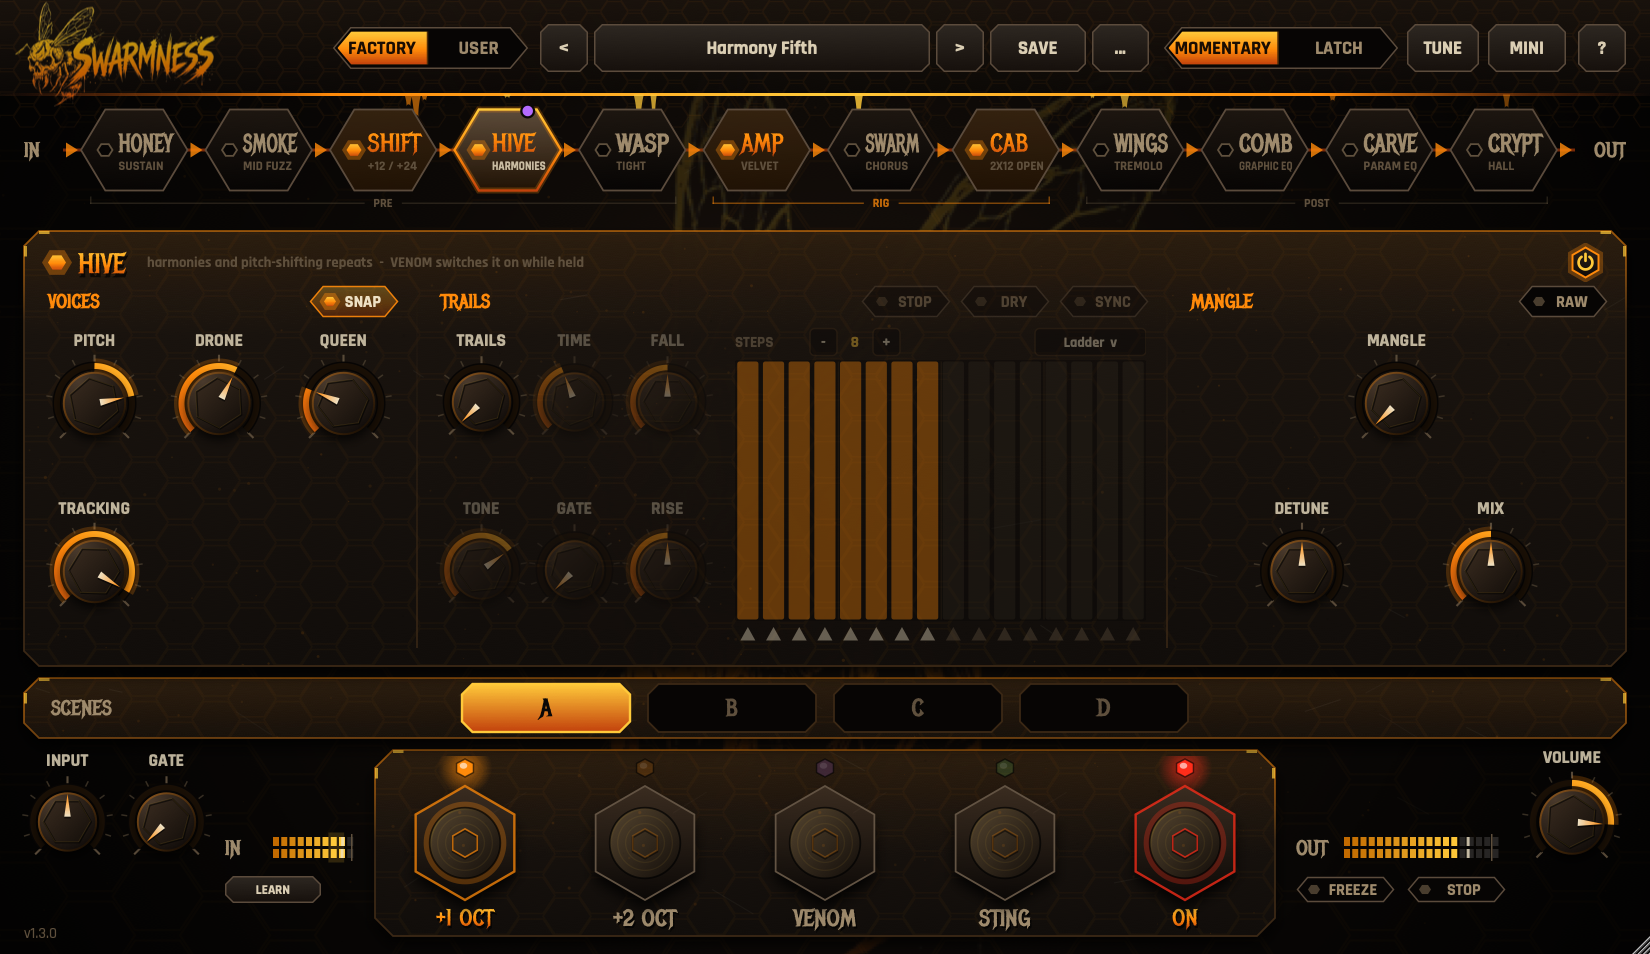
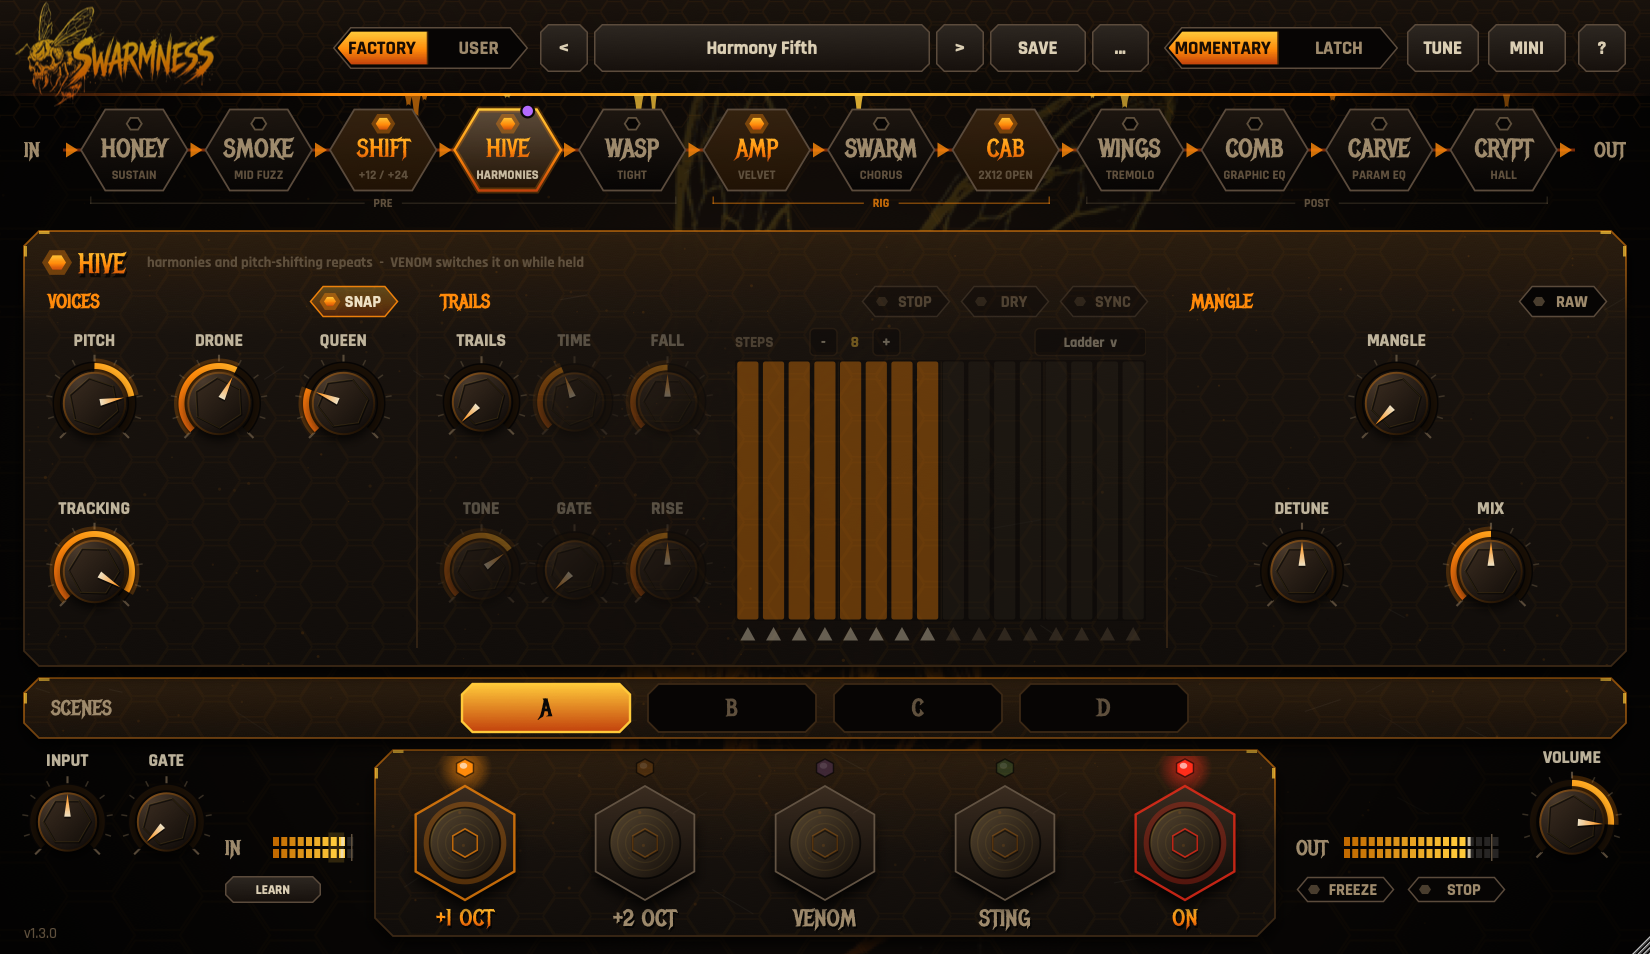
UI: the title LED is the block's power switch; tile text centred
Every block had two things saying the same: a hex LED in front of its
title and a separate power button on the right. The LED is the switch now
(PowerButton draws as that LED: lit = on, a faint glow = off but a stomp /
footswitch has it engaged right now), the right-hand buttons are gone and
the selectors / pills move up to the edge. Chain tiles: the LED sits on top
in the middle, the name and its live value are centred under it.

diff --git a/Source/GUI/Pages.cpp b/Source/GUI/Pages.cpp
@@ -10,11 +10,17 @@ namespace
     void drawPanelTitle (juce::Graphics& g, juce::Rectangle<float> area, const juce::String& title, const juce::String& subtitle, bool active)
     {
         auto row = area.reduced (16.0f, 0.0f).withTrimmedTop (8.0f).withHeight (26.0f);
-        drawSectionTitle (g, row, title, active);
+        drawSectionTitle (g, row, title, active, false);   // the block's PowerButton is the LED
         g.setFont (font (12.5f, true));
         g.setColour (Colours::textFaint);
         g.drawText (subtitle, row.withTrimmedLeft (22.0f + (float) juce::GlyphArrangement::getStringWidthInt (displayFont (23.0f), title) + 12.0f),
                     juce::Justification::centredLeft, false);
+    }
+
+    /** The block is sounding right now (its switch, or a stomp / footswitch holding it on). */
+    bool engagedNow (SwarmnessAudioProcessor& p, int block)
+    {
+        return (p.getMeters().engagedBlocks.load (std::memory_order_relaxed) & (1u << block)) != 0;
     }
 
     juce::String hzLabel (double f)
@@ -571,9 +577,8 @@ void EqPage::resized()
     const float w = (float) getWidth(), h = (float) getHeight();
     combArea = carveArea = { 0.0f, 0.0f, w, h };
 
-    auto powerFor = [] (juce::Rectangle<float> a) { return juce::Rectangle<int> ((int) a.getRight() - 40, (int) a.getY() + 8, 26, 26); };
-    combPower.setBounds (powerFor (combArea));
-    carvePower.setBounds (powerFor (carveArea));
+    combPower.setBounds (titleLedBounds (combArea));
+    carvePower.setBounds (titleLedBounds (carveArea));
 
     // COMB: the curve across the top, ten faders under it
     {
@@ -629,6 +634,8 @@ void EqPage::paint (juce::Graphics& g)
 
 void EqPage::tick()
 {
+    combPower.setEngaged (engagedNow (processor, Chain::comb));
+    carvePower.setEngaged (engagedNow (processor, Chain::carve));
     const bool c = combPower.getToggleState(), v = carvePower.getToggleState();
     if (c != combOn || v != carveOn)
     {
@@ -823,8 +830,8 @@ ReverbPage::ReverbPage (SwarmnessAudioProcessor& p)
 void ReverbPage::resized()
 {
     panelArea = getLocalBounds().toFloat();
-    power.setBounds ((int) panelArea.getRight() - 40, 8, 26, 26);
-    typeSelector.setBounds ((int) panelArea.getRight() - 52 - 400, 10, 400, 24);
+    power.setBounds (titleLedBounds (panelArea));
+    typeSelector.setBounds ((int) panelArea.getRight() - 16 - 400, 10, 400, 24);
     freezeToggle.setBounds (typeSelector.getX() - 12 - 76, 10, 76, 24);
 
     const int tailH = getHeight() - 46 - 124;
@@ -891,6 +898,7 @@ void ReverbPage::paint (juce::Graphics& g)
 
 void ReverbPage::tick()
 {
+    power.setEngaged (engagedNow (processor, Chain::crypt));
     const bool nowOn = power.getToggleState();
     const bool nowIr = (int) state.getRawParameterValue (ParamIDs::revType)->load() == ReverbStage::impulse;
     const auto desc = processor.getReverbIRDescription();
@@ -1099,8 +1107,8 @@ void AmpCabSection::resized()
     ampArea = { 0.0f, 0.0f, 690.0f, h };
     cabArea = { 702.0f, 0.0f, w - 702.0f, h };
 
-    ampPower.setBounds ((int) ampArea.getRight() - 40, 8, 26, 26);
-    channelSelector.setBounds ((int) ampArea.getRight() - 52 - 300, 10, 300, 24);
+    ampPower.setBounds (titleLedBounds (ampArea));
+    channelSelector.setBounds ((int) ampArea.getRight() - 16 - 300, 10, 300, 24);
     {
         const std::initializer_list<Knob*> row { &gainKnob, &bassKnob, &midKnob, &trebleKnob, &presenceKnob, &depthKnob, &masterKnob };
         const std::initializer_list<Knob*> namRow { &namInputKnob, &namBassKnob, &namMidKnob, &namTrebleKnob, &namPresenceKnob, &namDepthKnob, &namOutputKnob };
@@ -1128,7 +1136,7 @@ void AmpCabSection::resized()
     gateKnob .setBounds ((int) morphArea.getRight() + 20, 146, 72, 102);
     levelKnob.setBounds (gateKnob.getRight() + 8, 146, 72, 102);
 
-    cabPower.setBounds ((int) cabArea.getRight() - 40, 8, 26, 26);
+    cabPower.setBounds (titleLedBounds (cabArea));
     cabSelector.setBounds ((int) cabArea.getX() + 14, 40, (int) cabArea.getWidth() - 28, 24);
     {
         const std::initializer_list<Knob*> row { &micKnob, &distKnob, &lowCutKnob, &highCutKnob, &cabLevelKnob };
@@ -1253,6 +1261,8 @@ void AmpCabSection::paint (juce::Graphics& g)
 
 void AmpCabSection::tick()
 {
+    ampPower.setEngaged (engagedNow (processor, Chain::amp));
+    cabPower.setEngaged (engagedNow (processor, Chain::cab));
     const bool nowAmp = ampPower.getToggleState(), nowCab = cabPower.getToggleState();
     const int nowChannel = juce::roundToInt (state.getRawParameterValue (ParamIDs::ampChannel)->load());
     const int nowType = juce::roundToInt (state.getRawParameterValue (ParamIDs::cabType)->load());
@@ -1476,8 +1486,8 @@ DriveBlock::Settings WaspSection::current() const
 void WaspSection::resized()
 {
     panelArea = getLocalBounds().toFloat();
-    power.setBounds ((int) panelArea.getRight() - 40, 8, 26, 26);
-    modeSelector.setBounds ((int) panelArea.getRight() - 40 - 12 - 150, 9, 150, 24);
+    power.setBounds (titleLedBounds (panelArea));
+    modeSelector.setBounds ((int) panelArea.getRight() - 16 - 150, 9, 150, 24);
     characterSelector.setBounds (modeSelector.getX() - 12 - 250, 9, 250, 24);
     const float knobsW = 470.0f;
     {
@@ -1661,6 +1671,7 @@ void WaspSection::paint (juce::Graphics& g)
 
 void WaspSection::tick()
 {
+    power.setEngaged (engagedNow (processor, Chain::drive));
     const auto s = current();
     bool changed = false;
     if (const auto st = processor.getTone3000Status (Tone3000::Target::pedal); st != toneStatus)

diff --git a/Source/PluginEditor.cpp b/Source/PluginEditor.cpp
@@ -452,8 +452,9 @@ void MainPanel::resized()
     const auto P = pageArea.toFloat();
     honeyArea = fuzzArea = swarmArea = flowArea = hiveArea = shiftArea = P;
 
-    auto powerFor = [] (juce::Rectangle<float> a) { return juce::Rectangle<int> ((int) a.getRight() - 40, (int) a.getY() + 8, 26, 26); };
-    auto pillFor  = [] (juce::Rectangle<float> a, int slot) { return juce::Rectangle<int> ((int) a.getRight() - 40 - 66 * (slot + 1), (int) a.getY() + 9, 60, 24); };
+    // a block's power button is the LED in front of its title; the switches line up at the right
+    auto powerFor = [] (juce::Rectangle<float> a) { return titleLedBounds (a); };
+    auto pillFor  = [] (juce::Rectangle<float> a, int slot) { return juce::Rectangle<int> ((int) a.getRight() - 16 - 60 - 66 * slot, (int) a.getY() + 9, 60, 24); };
     constexpr int bigW = 92, bigH = 128, smallW = 70, smallH = 100, bigStep = 124, smallStep = 96;
     // knobs side by side, centred between x0 and x1; big ones and small ones share a centre line
     auto row = [] (std::initializer_list<std::pair<Knob*, bool>> knobs, int x0, int x1, int centreY)
@@ -479,7 +480,7 @@ void MainPanel::resized()
 
     // SMOKE: one row - the three that shape it large, the details smaller
     fuzzPower.setBounds (powerFor (fuzzArea));
-    fuzzVoiceSelector.setBounds ((int) fuzzArea.getRight() - 40 - 8 - 150, (int) fuzzArea.getY() + 10, 150, 22);
+    fuzzVoiceSelector.setBounds ((int) fuzzArea.getRight() - 16 - 150, (int) fuzzArea.getY() + 10, 150, 22);
     row ({ { &fuzzKnob, true }, { &fuzzToneKnob, true }, { &fuzzBlendKnob, true }, { &fuzzScoopKnob, false }, { &fuzzGlareKnob, false },
            { &fuzzGateKnob, false }, { &fuzzSagKnob, false }, { &fuzzCrushKnob, false } }, px0, px1, bodyMid);
 
@@ -552,8 +553,8 @@ void MainPanel::resized()
 
     // WINGS: depth and rate on the left, the step pattern next to them
     flowPower.setBounds (powerFor (flowArea));
-    syncToggle.setBounds ((int) flowArea.getRight() - 44 - 54,  (int) flowArea.getY() + 9, 54, 24);
-    hardToggle.setBounds ((int) flowArea.getRight() - 44 - 112, (int) flowArea.getY() + 9, 54, 24);
+    syncToggle.setBounds ((int) flowArea.getRight() - 16 - 54,  (int) flowArea.getY() + 9, 54, 24);
+    hardToggle.setBounds ((int) flowArea.getRight() - 16 - 112, (int) flowArea.getY() + 9, 54, 24);
     {
         flowAmountKnob.setBounds (px0, bodyMid - bigH / 2, bigW, bigH);
         flowSpeedKnob.setBounds (px0 + bigStep, bodyMid - bigH / 2, bigW, bigH);
@@ -712,7 +713,7 @@ void MainPanel::paintBackdrop (juce::Graphics& g)
     auto blockPanel = [&] (juce::Rectangle<float> a, const char* title, const char* description, bool on)
     {
         drawPanel (g, a);
-        drawSectionTitle (g, titleRow (a), title, on);
+        drawSectionTitle (g, titleRow (a), title, on, false);   // the block's PowerButton is the LED
         g.setFont (font (12.5f, true));
         g.setColour (Colours::textFaint);
         g.drawText (description, titleRow (a).withTrimmedLeft (22.0f + (float) juce::GlyphArrangement::getStringWidthInt (displayFont (23.0f), title) + 12.0f),
@@ -822,6 +823,12 @@ void MainPanel::tick()
     const bool hiveSynced = paramOn (ParamIDs::rbSync);
     rbTimeKnob.setVisible (! hiveSynced);
     rbDivKnob.setVisible (hiveSynced);
+
+    // the power LEDs also glow (faintly) while a stomp / footswitch has the block on
+    shiftPower.setEngaged (noiseOn);
+    for (auto [button, block] : { std::pair<PowerButton*, int> { &hivePower, Chain::pitch }, { &swarmPower, Chain::swarm },
+                                  { &fuzzPower, Chain::smoke }, { &flowPower, Chain::wings }, { &honeyPower, Chain::honey } })
+        button->setEngaged (blockEngaged (block));
 
     const bool voicesOn = blockEngaged (Chain::pitch);
     const std::array<bool, 6> states { noiseOn, voicesOn, blockEngaged (Chain::swarm),
@@ -1034,7 +1041,7 @@ void MainPanel::addStompWiring (juce::PopupMenu& menu, bool venom)
         if (p == nullptr) return;
         const int current = juce::roundToInt (p->convertFrom0to1 (p->getValue()));
         juce::PopupMenu sub;
-        static const char* labels[] { "-  (its own power button)", "On while held", "Off while held" };
+        static const char* labels[] { "-  (its own power LED)", "On while held", "Off while held" };
         for (int a = 0; a < 3; ++a)
             sub.addItem (labels[a], true, current == a, [p, a] { p->beginChangeGesture(); p->setValueNotifyingHost (p->convertTo0to1 ((float) a)); p->endChangeGesture(); });
         menu.addSubMenu (name + (current == 1 ? "  -  On" : current == 2 ? "  -  Off" : juce::String()), sub, true, nullptr, current != 0);

diff --git a/Source/GUI/Controls.cpp b/Source/GUI/Controls.cpp
@@ -160,43 +160,32 @@ PowerButton::PowerButton()
     setMouseCursor (juce::MouseCursor::PointingHandCursor);
 }
 
-void PowerButton::paintButton (juce::Graphics& g, bool isMouseOver, bool)
+void PowerButton::paintButton (juce::Graphics& g, bool isMouseOver, bool isDown)
 {
-    const auto r = getLocalBounds().toFloat().reduced (1.5f);
+    // the same hex LED the section titles have, sized like theirs; the button around it is the click target
+    const auto c = getLocalBounds().toFloat().getCentre();
+    const auto led = juce::Rectangle<float> (12.0f, 11.0f).withCentre (c);
     const bool on = getToggleState();
-    const auto c = r.getCentre();
-    const float rad = juce::jmin (r.getWidth(), r.getHeight()) * 0.5f;
-    const auto hexR = juce::Rectangle<float> (rad * 2.0f, rad * 2.0f).withCentre (c);
-
-    // artwork: the round power button, its symbol lit when on
-    if (Skin::draw (g, on ? "power_on" : "power_off", hexR.expanded (2.0f)))
+    if (isMouseOver || isDown)
     {
-        if (isMouseOver)
-        {
-            g.setColour (Colours::accent.withAlpha (0.35f));
-            g.drawEllipse (hexR.reduced (1.0f), 1.2f);
-        }
-        return;
+        g.setColour (Colours::accent.withAlpha (isDown ? 0.3f : 0.16f));
+        g.fillPath (hexagon (led.expanded (6.0f)));
     }
-
-    if (on)
+    if (on || engaged)
     {
-        g.setColour (Colours::accent.withAlpha (0.3f));
-        g.fillPath (hexagon (hexR.expanded (2.0f), true));
+        g.setColour (Colours::accent.withAlpha (on ? 0.35f : 0.18f));
+        g.fillPath (hexagon (led.expanded (4.0f)));
+        if (on)
+            g.setGradientFill (honeyGradient (led));
+        else
+            g.setColour (Colours::accent.withAlpha (0.55f));
+        g.fillPath (hexagon (led));
     }
-    g.setGradientFill (juce::ColourGradient (juce::Colour (0xff2e2319), c.x, hexR.getY(),
-                                             juce::Colour (0xff0d0907), c.x, hexR.getBottom(), false));
-    g.fillPath (hexagon (hexR.reduced (1.5f), true));
-    g.setColour (on ? Colours::accent : (isMouseOver ? Colours::textDim : Colours::panelBorder.brighter (0.3f)));
-    g.strokePath (hexagon (hexR.reduced (1.5f), true), juce::PathStrokeType (1.3f));
-
-    const float ir = rad * 0.4f;
-    juce::Path glyph;
-    glyph.addCentredArc (c.x, c.y, ir, ir, 0.0f, juce::degreesToRadians (35.0f), juce::degreesToRadians (325.0f), true);
-    glyph.startNewSubPath (c.x, c.y - ir * 1.25f);
-    glyph.lineTo (c.x, c.y - ir * 0.25f);
-    g.setColour (on ? Colours::accentBright : Colours::textFaint);
-    g.strokePath (glyph, juce::PathStrokeType (1.8f, juce::PathStrokeType::curved, juce::PathStrokeType::rounded));
+    else
+    {
+        g.setColour (isMouseOver ? Colours::textDim : Colours::textFaint);
+        g.strokePath (hexagon (led), juce::PathStrokeType (1.2f));
+    }
 }
 
 //==============================================================================

diff --git a/Source/GUI/ChainStrip.cpp b/Source/GUI/ChainStrip.cpp
@@ -146,8 +146,11 @@ void ChainStrip::resized()
 juce::Rectangle<float> ChainStrip::ledRect (juce::Rectangle<float> tile) const noexcept
 {
     const bool half = isHalf (tile, tileAreaHeight());
-    const float s = half ? 9.0f : 10.0f;
-    return juce::Rectangle<float> (s, s - 1.0f).withCentre ({ tile.getX() + (half ? 14.0f : 16.0f), tile.getCentreY() });
+    // full tiles: the LED sits on top in the middle, the name and its value centred under it;
+    // half tiles (parallel paths) are too low for that: LED on the left
+    if (half)
+        return juce::Rectangle<float> (9.0f, 8.0f).withCentre ({ tile.getX() + 14.0f, tile.getCentreY() });
+    return juce::Rectangle<float> (10.0f, 9.0f).withCentre ({ tile.getCentreX(), tile.getY() + 9.5f });
 }
 
 Chain::Layout ChainStrip::displayLayout() const
@@ -420,7 +423,8 @@ void ChainStrip::paint (juce::Graphics& g)
 
         // name (+ subtitle on full-height tiles)
         // eleven blocks share the strip: names squeeze rather than getting cut
-        auto text = r.withTrimmedLeft (half ? 21.0f : 25.0f).withTrimmedRight (r.getHeight() * kPoint * 0.5f + 2.0f);
+        auto text = half ? r.withTrimmedLeft (21.0f).withTrimmedRight (r.getHeight() * kPoint * 0.5f + 2.0f)
+                         : r.reduced (r.getHeight() * kPoint * 0.5f + 2.0f, 0.0f);
         if (half)
         {
             g.setFont (displayFont (16.0f));
@@ -430,14 +434,15 @@ void ChainStrip::paint (juce::Graphics& g)
             return;
         }
         g.setFont (displayFont (21.0f));
-        const auto nameArea = text.withTrimmedBottom (text.getHeight() * 0.42f).translated (0.0f, 2.0f);
+        const float top = r.getY();
+        const auto nameArea = text.withY (top + 15.0f).withHeight (22.0f);
         if (dark) g.setColour (Colours::background);
         else if (on || hi) g.setGradientFill (honeyGradient (nameArea)); else g.setColour (Colours::textDim);
-        g.drawFittedText (Chain::names[b], nameArea.toNearestInt(), juce::Justification::bottomLeft, 1, 0.55f);
+        g.drawFittedText (Chain::names[b], nameArea.toNearestInt(), juce::Justification::centred, 1, 0.55f);
         g.setFont (font (11.0f, true));
         g.setColour (dark ? Colours::background.withAlpha (0.75f) : hi ? Colours::text.withAlpha (0.8f) : Colours::textFaint);
         g.drawFittedText (subtitles[(size_t) b].isNotEmpty() ? subtitles[(size_t) b] : juce::String (Chain::subtitles[b]),
-                          text.withTrimmedTop (text.getHeight() * 0.58f).withTrimmedTop (1.0f).toNearestInt(), juce::Justification::topLeft, 1, 0.5f);
+                          text.withY (top + 37.0f).withHeight (13.0f).toNearestInt(), juce::Justification::centred, 1, 0.5f);
 
         // stomp wiring: VENOM purple, STING green, on the tile's top edge
         const int marks = stompMarks[(size_t) b];

diff --git a/Source/GUI/Theme.h b/Source/GUI/Theme.h
@@ -209,11 +209,19 @@ namespace Theme
         }
     }
 
-    /** Section title: hex LED + spiky metal lettering in the honey gradient when active. */
-    inline void drawSectionTitle (juce::Graphics& g, juce::Rectangle<float> area, const juce::String& title, bool active)
+    /** Where a panel's title LED sits (area = the panel): a block's power button goes exactly there. */
+    inline juce::Rectangle<int> titleLedBounds (juce::Rectangle<float> panel)
+    {
+        return juce::Rectangle<int> (24, 24).withCentre ({ juce::roundToInt (panel.getX() + 16.0f + 6.0f), juce::roundToInt (panel.getY() + 8.0f + 13.0f) });
+    }
+
+    /** Section title: hex LED + spiky metal lettering in the honey gradient when active.
+        drawLed = false: the space stays, a power button (PowerButton) is the LED. */
+    inline void drawSectionTitle (juce::Graphics& g, juce::Rectangle<float> area, const juce::String& title, bool active, bool drawLed = true)
     {
         const auto led = area.removeFromLeft (12.0f).withSizeKeepingCentre (12.0f, 11.0f);
-        if (active)
+        if (! drawLed) {}
+        else if (active)
         {
             g.setColour (Colours::accent.withAlpha (0.35f));
             g.fillPath (hexagon (led.expanded (4.0f)));

diff --git a/Source/GUI/Controls.h b/Source/GUI/Controls.h
@@ -99,13 +99,18 @@ private:
 };
 
 //==============================================================================
-/** Round section power switch with glowing ring. */
+/** A block's on / off: the hex LED in front of its title - lit = on, glowing faintly = off but engaged
+    right now (a stomp or a footswitch has it), dark = off. */
 class PowerButton : public juce::ToggleButton
 {
 public:
     PowerButton();
     void paintButton (juce::Graphics&, bool isMouseOver, bool isDown) override;
+    /** Engaged by something else (VENOM / STING, a SHIFT footswitch) while its own switch may be off. */
+    void setEngaged (bool e) { if (e != engaged) { engaged = e; repaint(); } }
     SWARM_RIGHT_CLICK_SAFE_BUTTON
+private:
+    bool engaged = false;
 };
 
 //==============================================================================
